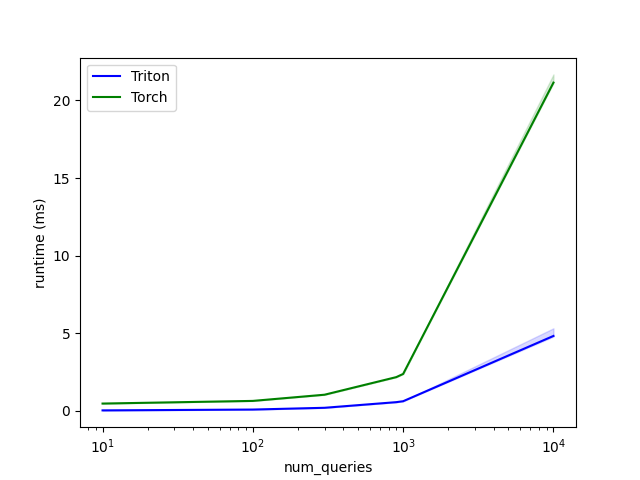
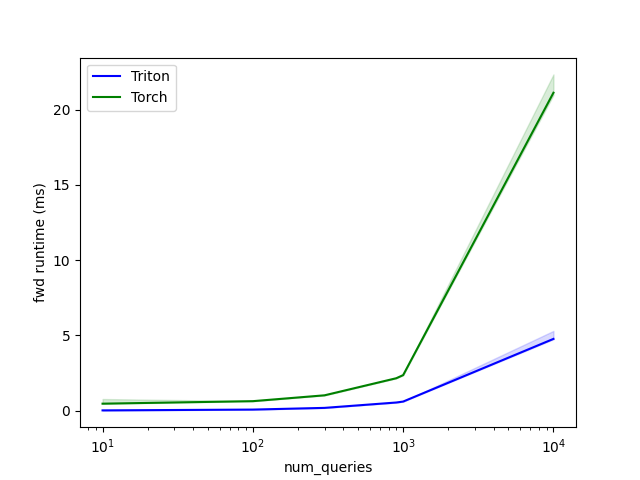
fixed typos, changed axes names for clarity

diff --git a/scripts/benchmark.py b/scripts/benchmark.py
@@ -16,7 +16,7 @@ triton.testing.Benchmark(
     line_vals=["triton", "torch"],  # Possible values for `line_arg`.
     line_names=["Triton", "Torch"],  # Label name for the lines.
     styles=[("blue", "-"), ("green", "-")],  # Line styles.
-    ylabel="runtime (ms)",  # Label name for the y-axis.
+    ylabel="fwd runtime (ms)",  # Label name for the y-axis.
     plot_name="msda fwd runtime (ms)",  # Name for the plot. Used also as a file name for saving the plot.
     args={},  # Values for function arguments not in `x_names` and `y_name`.
 ))
@@ -62,7 +62,7 @@ triton.testing.Benchmark(
     line_vals=["triton", "torch"],  # Possible values for `line_arg`.
     line_names=["Triton", "Torch"],  # Label name for the lines.
     styles=[("blue", "-"), ("green", "-")],  # Line styles.
-    ylabel="runtime (ms)",  # Label name for the y-axis.
+    ylabel="fwd+bwd runtime (ms)",  # Label name for the y-axis.
     plot_name="msda fwd+bwd runtime (ms)",  # Name for the plot. Used also as a file name for saving the plot.
     args={},  # Values for function arguments not in `x_names` and `y_name`.
 ))
@@ -112,7 +112,7 @@ triton.testing.Benchmark(
     line_vals=["triton", "torch"],  # Possible values for `line_arg`.
     line_names=["Triton", "Torch"],  # Label name for the lines.
     styles=[("blue", "-"), ("green", "-")],  # Line styles.
-    ylabel="memory consuption (MB)",  # Label name for the y-axis.
+    ylabel="memory consumption (MB)",  # Label name for the y-axis.
     plot_name="msda memory consumption (MB)",  # Name for the plot. Used also as a file name for saving the plot.
     args={},  # Values for function arguments not in `x_names` and `y_name`.
 ))

diff --git a/README.md b/README.md
@@ -83,7 +83,7 @@ pytest ./tests
 
 To run the benchmark:
 ```sh
-python scripts/benchmark
+python scripts/benchmark.py
 ```
 The results will be printed in terminal and saved in `outputs/benchmakr_resuls` folder.
 
